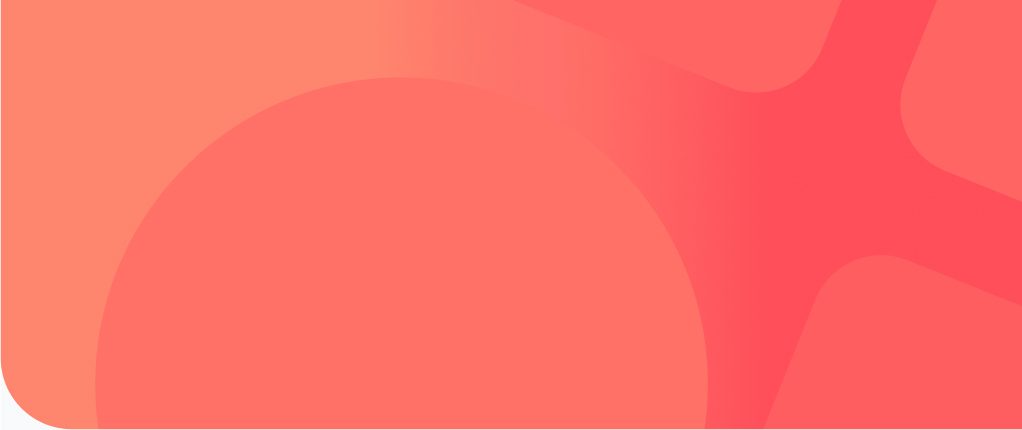
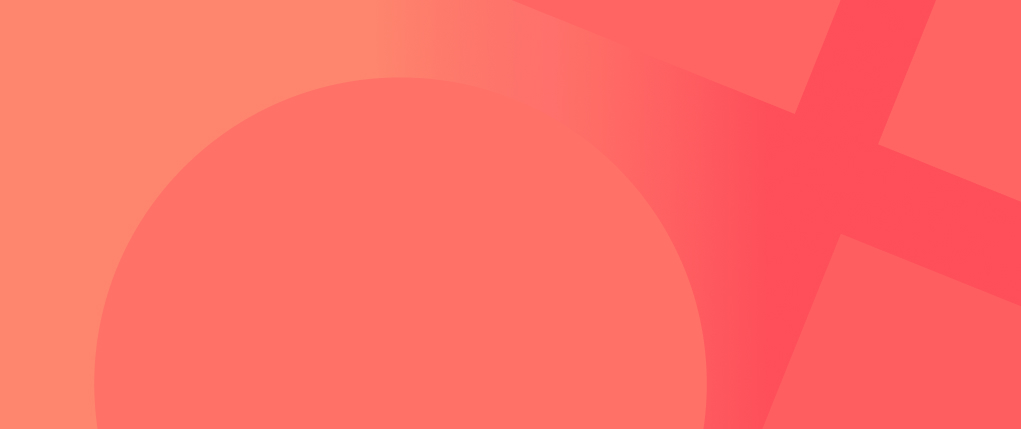
90

Changed region(s): [[0.0, 0.8788, 0.0607, 1.0]]

diff --git a/src/page/home.jsx b/src/page/home.jsx
@@ -23,11 +23,11 @@ const Home = (name) => {
     <>
       <Helmet>
         <title> Zhamza | Développeur Web </title>
-        <meta name='description' content="Je suis un développeur Web, le développement Web est ma passion et je m'assure que chaque projet sur lequel je travaille est qualitatif.En tant que développeur front et back-end, je peux vous aider à définir l'expérience utilisateur de votre projet ou à amener votre entreprise au niveau supérieur.Vous trouverez mon travail de premier ordre tout en étant suffisamment professionnel pour impressionner vos clients. N'hésitez pas à m'envoyer un message si vous avez des questions ou des conseils sur les services que je propose. Merci!"  />
+        <meta name='description' content="Je suis un développeur Web, le développement Web est ma passion et je m'assure que chaque projet sur lequel je travaille est qualitatif.En tant que développeur front et back-end, je peux vous aider à définir l'expérience utilisateur de votre projet ou à amener votre entreprise au niveau supérieur."  />
         <link rel="canonical" href="/" />
       </Helmet>
    
-    <section className=' bg-header2 lg:bg-header1024 bg-no-repeat 2xl:pb-[8rem]  pb-[6rem] text-white w-full rounded-bl-[8rem] lg:pb-[4rem]'>
+    <section className=' bg-header2 lg:bg-header1024 sm:bg-header425 bg-no-repeat 2xl:pb-[8rem]  pb-[6rem] text-white w-full rounded-bl-[8rem] lg:pb-[4rem]'>
        <header className='pt-[2.8rem] pb-[3.4rem] md:flex md:flex-row-reverse '>
         <nav className='z-[100000]' ref={navRef} > 
           <ul className='flex justify-around px-[15rem] text-white items-center font-regular text-[2rem] md:flex-col md:text-[40px] '>

diff --git a/src/page/portfolio.jsx b/src/page/portfolio.jsx
@@ -30,13 +30,13 @@ const portfolio = () => {
 
       <div className='flex justify-around mt-[6.4rem] mx-[20%] sm:flex-col '>
         <PortfolioCard link="https://www.group-edt.fr/" alt="Image Site EDT" img={EDT} />
-        <PortfolioCard link="https://weexa.com/fr/accueil/" alt="Image Site Weexa" img={Weexa} />
+        <PortfolioCard link="https://weexa.com/fr/accueil/" alt="Image Site Weexa" img={Weexa}  />
       </div>
 
 
       <div className='flex justify-around  mb-[13rem] mx-[20%] sm:flex-col mt-[3.6rem] md:mt-[0rem] ' > {/* md:mt-[3.6rem] */}
-        <PortfolioCard link="https://resplendent-tapioca-2d5dee.netlify.app/" alt="Image Site World" img={World} />
-        <PortfolioCard link="https://teal-gaufre-972163.netlify.app/" alt="Image Site Shoppy" img={Shoppy} />
+        <PortfolioCard link="https://where-in-the-world1.netlify.app/" alt="Image Site World" img={World} />
+        <PortfolioCard link="https://shoppy1.netlify.app/" alt="Image Site Shoppy" img={Shoppy} />
       </div> 
     </section>
     <Footer />

diff --git a/tailwind.config.js b/tailwind.config.js
@@ -28,6 +28,7 @@ module.exports = {
         'header': "url('./asset/Background-header1.png')",
         'header2': "url('./asset/Background-header2.svg')",
         'header1024': "url('./asset/Background-header1024.jpg')",
+        'header425': "url('./asset/Background-header425.jpg')",
         'wordpress': "url('./asset/Wordpress.jpg')",
         'calendly': "url('./asset/Calendly.jpg')",
         'responsive': "url('./asset/Responsive.jpg')",

diff --git a/src/components/portfolioCard.jsx b/src/components/portfolioCard.jsx
@@ -4,7 +4,7 @@ const portfolioCard = (props) => {
   return (
     <>
         <div className=' w-[45%] h-[100%] rounded-[10px] sm:w-[100%] sm:mb-[3.6rem] '>
-          <a href={`${props.link}`} > <img src={`${props.img}`} alt={`${props.alt}`} className='w-[100%]' />  </a>
+          <a href={`${props.link}`} target="_blank" > <img src={`${props.img}`} alt={`${props.alt}`} className='w-[100%]' />  </a>
         </div>
     </>
   )
